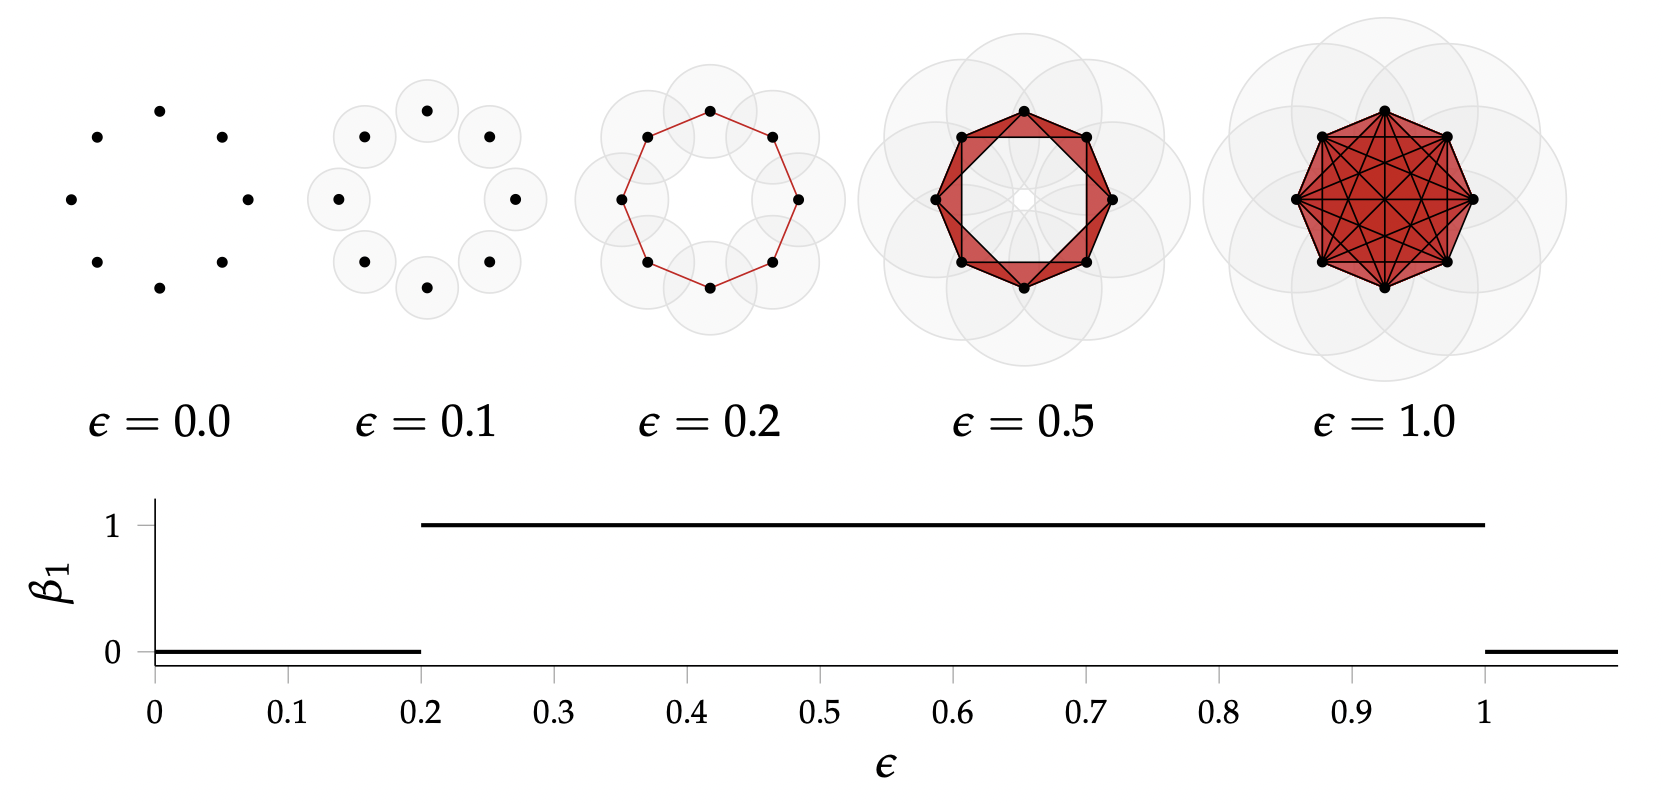
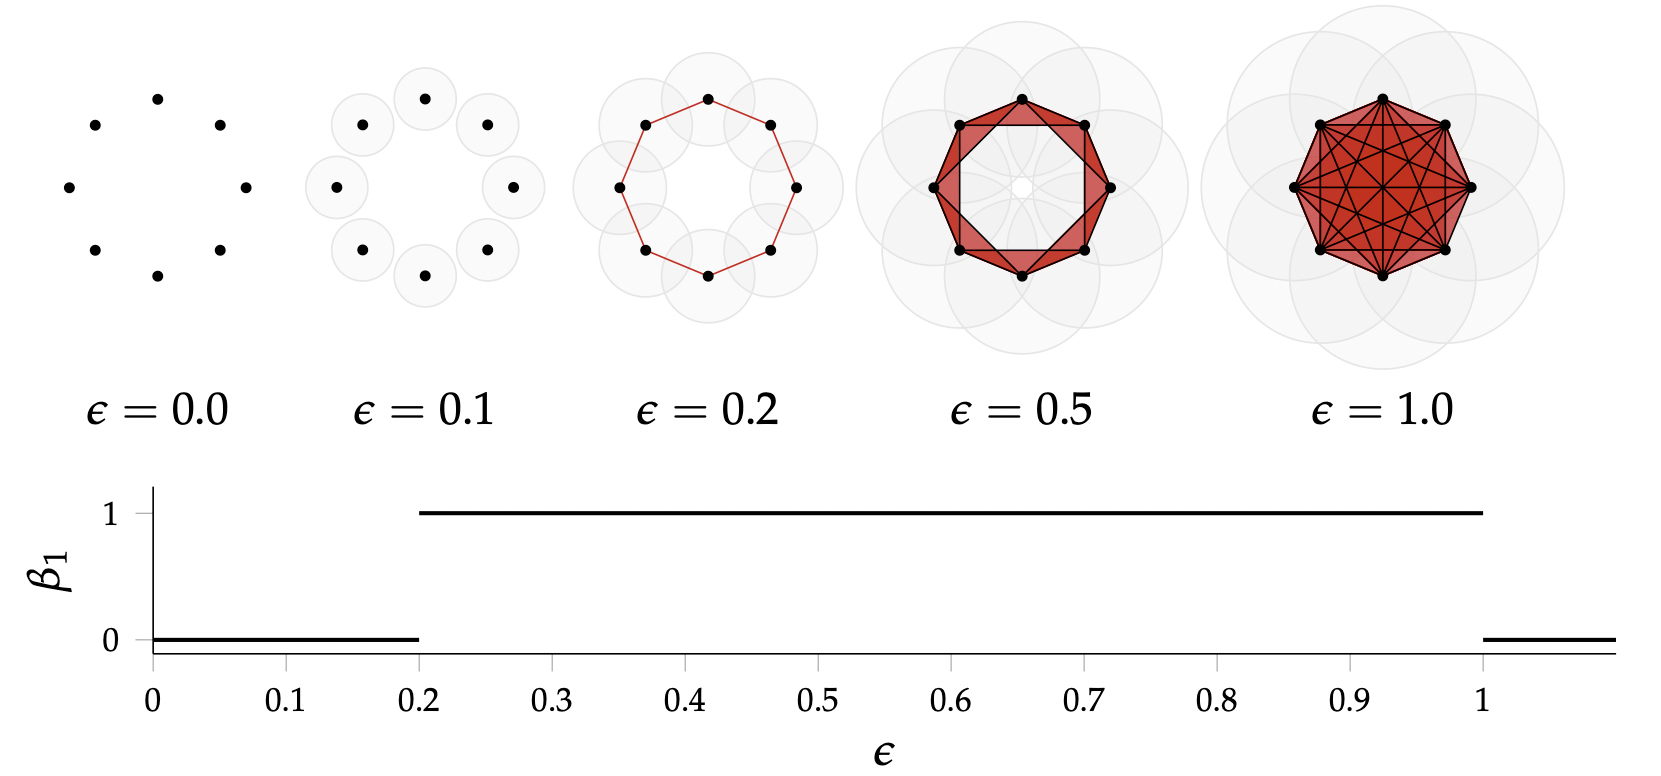
Update citation image rips

diff --git a/slides/PersistentHomology_EUTOPIA.html b/slides/PersistentHomology_EUTOPIA.html
@@ -567,22 +567,25 @@
 					 	\[V_{\epsilon}(\mathbb{X}_n) := \{\sigma \subseteq \mathbb{X}_n\colon \forall u,v\in \sigma, d(u,v)\leq \epsilon\}\]
 					 <p>Equivalently, $V_\epsilon$ contains all simplices whose <i>diameter</i> is less than or equal to $\epsilon$.</p>
 
-					 <img class="fragment" width="700" height = auto src='media_ph/rips.png'/>
+					 <img class="fragment" width="800" height = auto src='media_ph/rips.png'/>
+					 <br>
+					  <p style="font-size: 10px;text-align:right;">Image from: Bastian Rieck. Topological Data Analysis for Machine Learning.</p>
 					</span>
 
 				</section>
 
 				<section data-auto-animate>
 					<h4>From point clouds to (filtered) complexes</h4>
-					<span style="font-size: 21px; text-align:left;">
+					<span style="font-size: 18px; text-align:left;">
 
 					 <p>Let $(\mathbb{X}_n, d)$ be a finite set of points wiht a metric.</p>
 					 <p> Given a <b>parameter</b> $\epsilon>0$, the <b style="color: #fe6e61">Vietoris-Rips complex</b> $V_{\epsilon}$ is defined as
 					 	\[V_{\epsilon}(\mathbb{X}_n) := \{\sigma \subseteq \mathbb{X}_n\colon \forall u,v\in \sigma, d(u,v)\leq \epsilon\}\]
 					 <p>Equivalently, $V_\epsilon$ contains all simplices whose <i>diameter</i> is less than or equal to $\epsilon$.</p>
 					 <blockquote style="padding: 1px; border: 2px solid coral;"><b>Idea:</b> Track the evolution of the homology of $V_\epsilon$ as the value of $\epsilon$ increases.</blockquote>
-
-					 <img width="750" height = auto src='media_ph/evolution_rips.png'/>
+					 <img width="700" height = auto src='media_ph/evolution_rips.png'/>
+					 <br>
+					 <p style="font-size: 10px;text-align:right;">Image from: Bastian Rieck. Topological Data Analysis for Machine Learning.</p>
 					</span>
 
 				</section>
